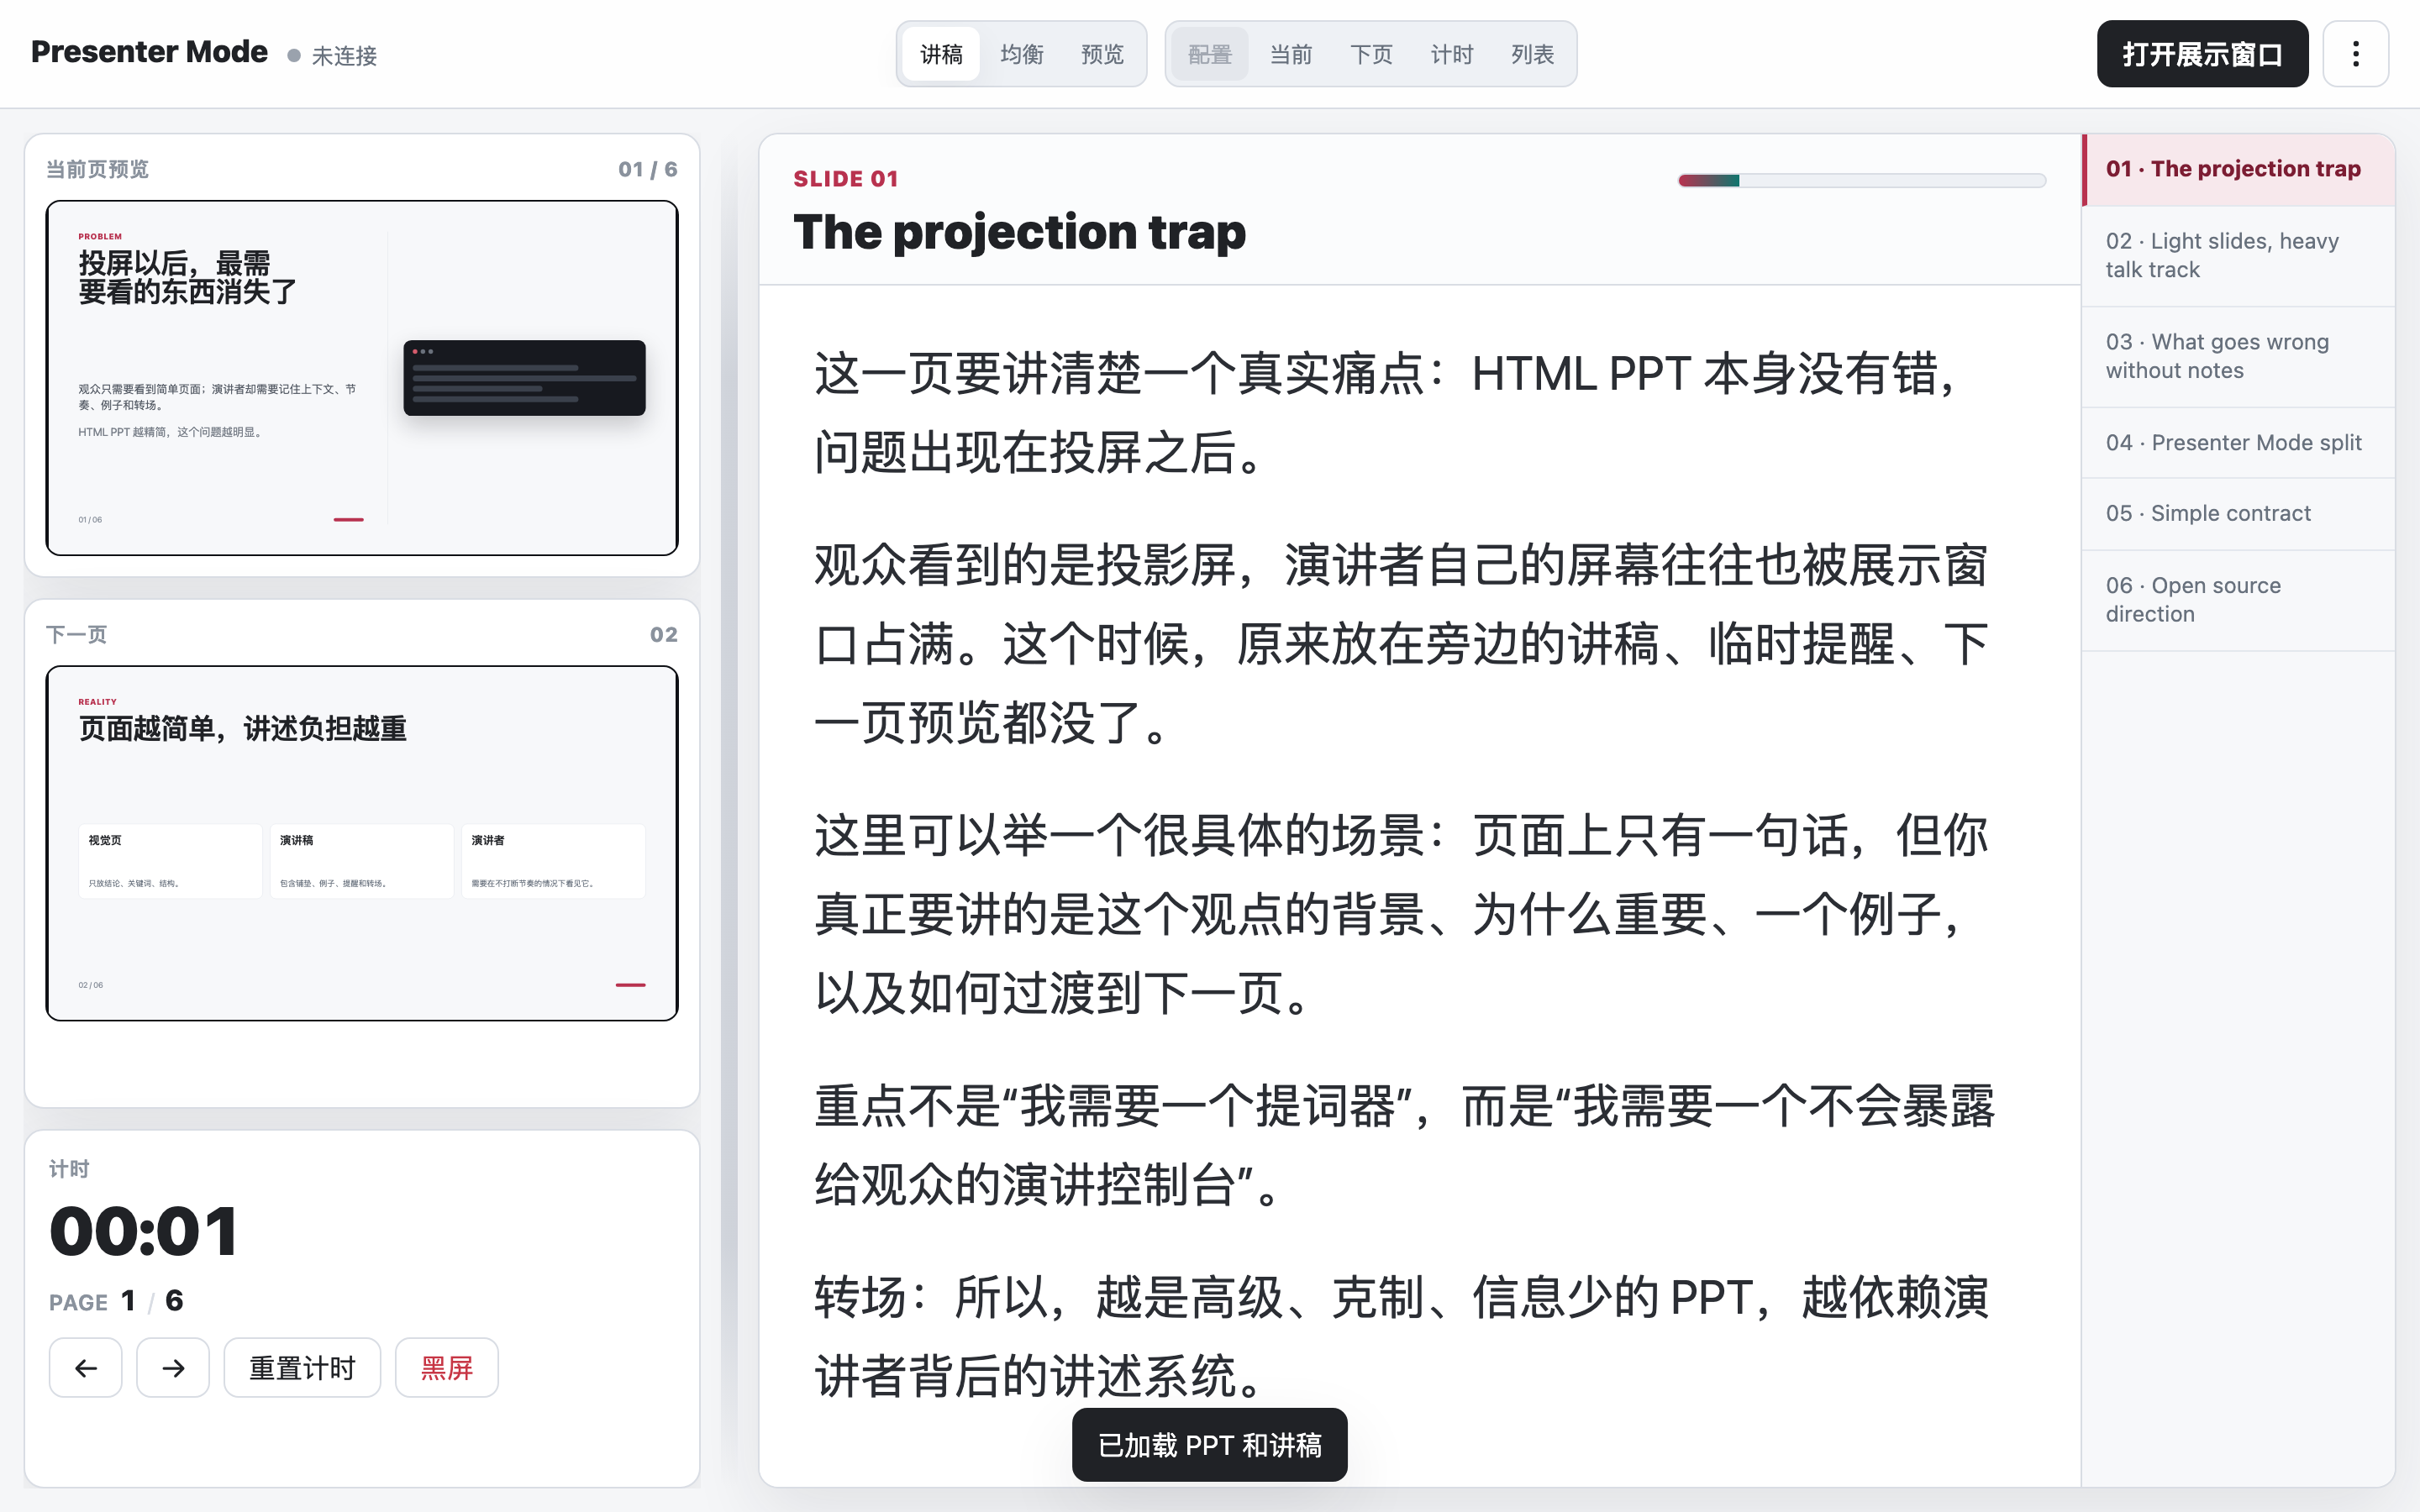
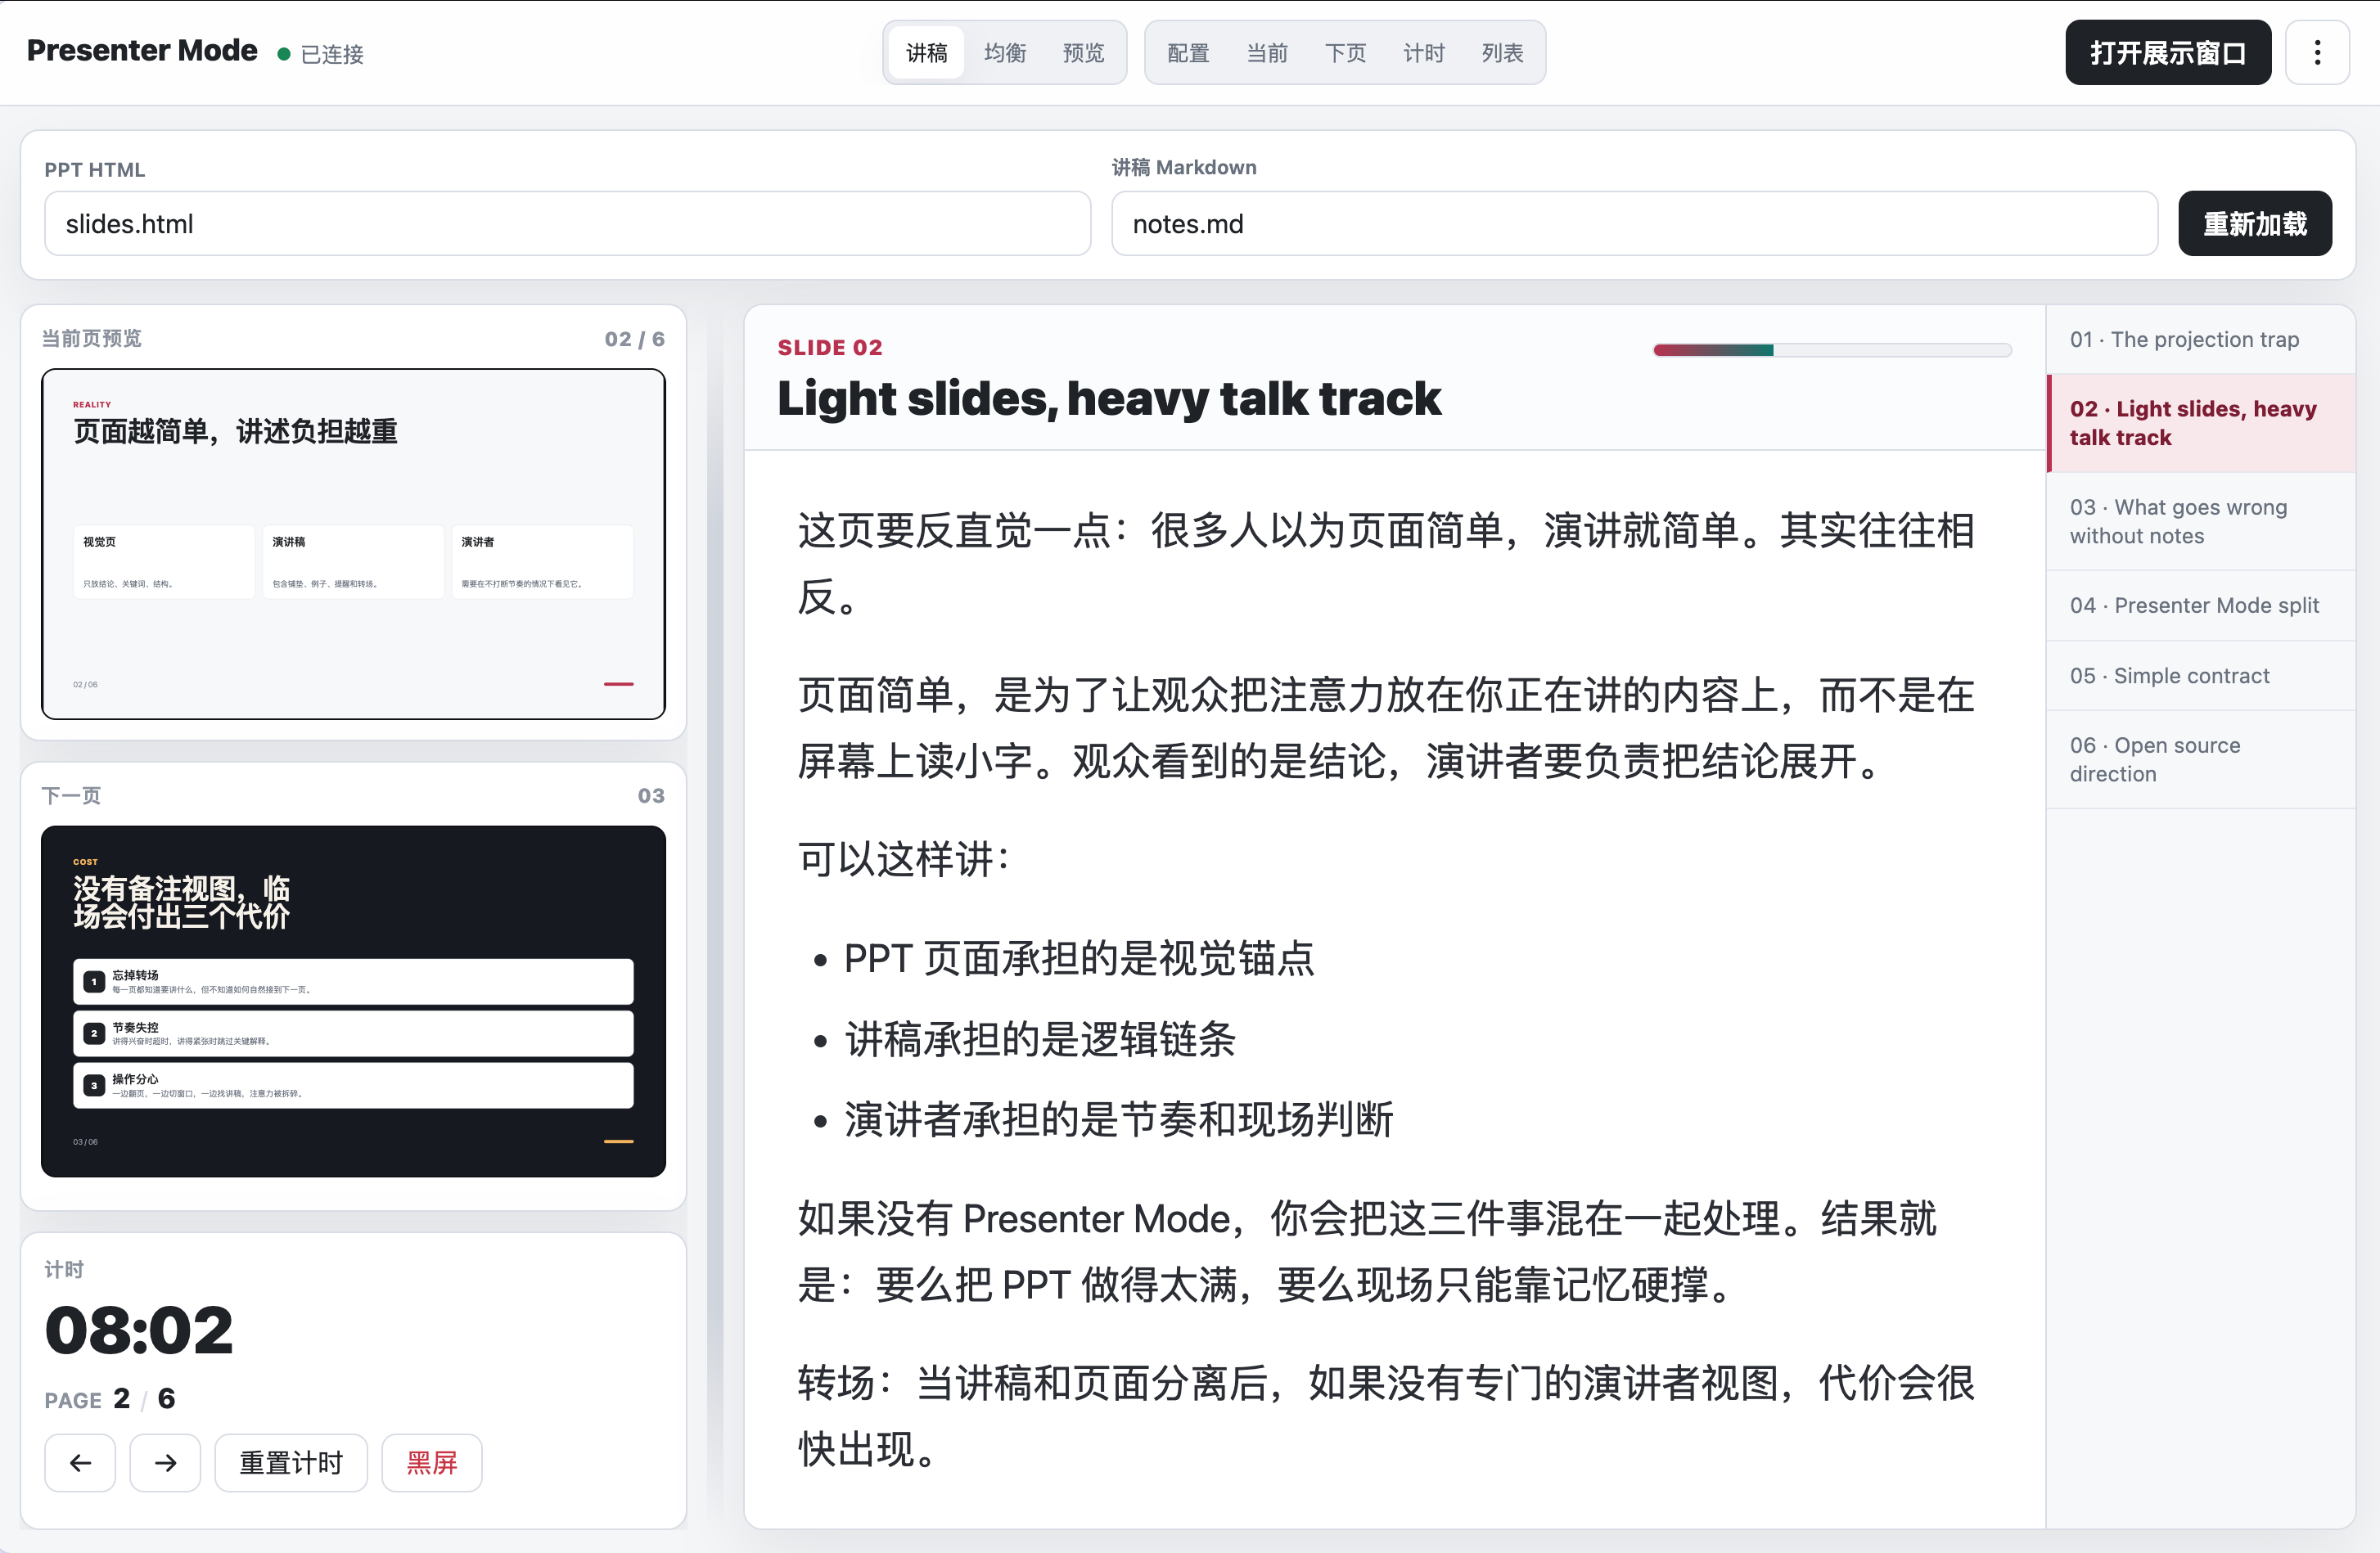
docs: update README presentation visuals

diff --git a/README.md b/README.md
@@ -6,22 +6,54 @@
 
 ## 中文
 
-为 HTML 幻灯片提供零构建的演讲者视图。
+### 这是什么？
 
-双屏演示：观众看到干净的幻灯片投影，演讲者在自己的屏幕上看到讲稿、计时器、当前/下一页预览、幻灯片列表和控制面板。
+你在台上旁征博引、金句频出、复杂概念一字不差——秘密在你的笔记本屏幕上：  
+讲稿、计时器、当前页、下一页预览、幻灯片缩略图列表。
+
+观众看到的投影？干净的幻灯片，一个字的提词都没有。
+
+**零构建、零配置、零依赖**——就一个 HTML 文件，浏览器打开就能用。
+
+### 双屏效果
+
+![双屏演讲场景](docs/illustration-dual-screen-room.png)
+
+![Presenter Mode 工作流](docs/illustration-workflow.png)
+
+### 界面截图
 
 ![演讲者视图](docs/screenshot-presenter.png)
 ![观众视图](docs/screenshot-audience.png)
 
+### 为什么做这个？
+
+**痛点 1：好的演讲需要讲稿，但幻灯片上不能写太多字**  
+观众不想看密密麻麻的文字，你需要记住每一页要讲什么、引用哪些数据、该强调哪个观点。  
+PowerPoint / Keynote 的演讲者模式解决了这个问题——你能看到备注，观众看不到。
+
+**痛点 2：我的幻灯片是 HTML，没有内置演讲者模式**  
+你用 reveal.js、Slidev、或者自己手写的 HTML slides。想要演讲者备注？
+- 有的框架需要装插件、改配置，还要学新语法
+- 有的框架根本不支持，只能把备注写在浏览器开发者工具的注释里
+- 或者…算了，我硬背吧
+
+**痛点 3：不想为了一个演讲者视图搞一套构建流程**  
+我就想要个双屏演示：观众看投影，我看讲稿。不想改现有幻灯片的一行代码，不想 `npm install` 一堆依赖。
+
+**解决方案：**  
+一个 HTML 文件（57KB），用 `<iframe>` 加载你的幻灯片，用 Markdown 写讲稿。  
+本地起个静态服务器（`python3 -m http.server`），打开浏览器，搞定。
+
 ### 核心特性
 
 - 🎯 **双窗口设置**：观众看干净的幻灯片，演讲者看讲稿+预览
-- 📝 **演讲者备注**：Markdown 格式，逐页显示讲稿
-- ⏱️ **计时器**：追踪演讲时间，可重置
-- 👀 **预览**：当前页和下一页并排显示
-- 📋 **幻灯片列表**：缩略图快速导航
-- 🎨 **响应式**：适配笔记本、平板、手机屏幕
-- 🌓 **主题**：浅色（Sun）和深色（Moon）模式
+- 📝 **演讲者备注**：Markdown 格式，逐页显示讲稿，支持加粗、列表、代码
+- ⏱️ **计时器**：追踪演讲时间，超时了心里有数
+- 👀 **预览**：当前页和下一页并排显示，提前知道下一页要讲什么
+- 📋 **幻灯片列表**：缩略图快速导航，讲到一半突然想跳过某页也不慌
+- 🎨 **响应式**：适配笔记本、平板、手机屏幕（平板当提词器也能用）
+- 🌓 **主题**：浅色（Sun）和深色（Moon）模式，适应不同场地光线
 - 🌍 **中英双语**：界面支持中文和英文
 - 🔧 **零构建**：无需 npm install，无需打包工具，浏览器直接打开
 
@@ -83,12 +115,21 @@ window.deck = {
 这是第一页的演讲者备注。
 
 要点：
-- 介绍主题
-- 设定预期
+- 介绍主题：今天要解决什么问题
+- 设定预期：听完能学到什么
+- 过渡语：接下来我们看看现状
+
+**重点数据**：根据 2024 年调查，83% 的开发者遇到过这个问题。
 
 ## 02 问题所在
 
-解释痛点...
+开场：「大家有没有遇到过这种情况…」
+
+核心观点：
+- 现有方案的三个局限
+- 为什么传统做法不够用
+
+引用：Martin Fowler 说过，「…」
 ```
 
 ### 快捷键
@@ -98,7 +139,7 @@ window.deck = {
 | `→` / `Space` / `PageDown` | 下一页 |
 | `←` / `PageUp` | 上一页 |
 | `Home` / `End` | 第一页或最后一页 |
-| `B` | 黑屏观众窗口 |
+| `B` | 黑屏观众窗口（中场休息或回答问题时用） |
 | `R` | 重置计时器 |
 | `+` / `-` / `0` | 调整或重置讲稿字号 |
 
@@ -109,6 +150,22 @@ window.deck = {
 3. 把观众窗口拖到投影屏幕
 4. 在观众窗口按 F11 进入全屏
 5. 在演讲者窗口控制翻页，观众窗口自动同步
+
+**建议：提前彩排一次**，确认讲稿字号、布局、计时器都调好了，演讲当天直接开讲。
+
+### 局限性
+
+**这个工具适合：**
+- ✅ 你已经有 HTML 幻灯片，只是想要个演讲者视图
+- ✅ 你的幻灯片结构简单（线性翻页，没有复杂的嵌套或动态路由）
+- ✅ 你愿意用 Markdown 写讲稿（不想嵌在幻灯片 HTML 里）
+- ✅ 你需要在演讲时看讲稿、计时、预览下一页
+
+**这个工具不适合：**
+- ❌ 你还没有幻灯片，想从零开始做演示 → 直接用 **reveal.js / Slidev / Sli.dev** 更合适
+- ❌ 你的幻灯片有复杂的嵌套结构或自定义路由 → 需要深度适配，可能不值得
+- ❌ 你想要实时协作、云端同步、自动录制 → 用 **Google Slides / Pitch**
+- ❌ 你的演讲不需要讲稿（演讲大师或者完全即兴）→ 那你不需要这个工具
 
 ### 开发与测试
 
@@ -131,22 +188,54 @@ MIT — 见 [LICENSE](LICENSE)
 
 ## English
 
-A zero-build presenter view for HTML slide decks.
+### What is this?
 
-Dual-window setup: audience sees clean slides on the projector, presenter sees notes + timer + current/next previews + slide list on their laptop screen.
+You're on stage dropping references, memorable quotes, complex concepts word-perfect — the secret is on your laptop screen:  
+Speaker notes, timer, current slide, next slide preview, thumbnail list.
+
+The audience sees the projector? Clean slides with zero visible prompts.
+
+**Zero-build, zero-config, zero-dependency** — just one HTML file, open in browser and go.
+
+### Dual-Screen Experience
+
+![Dual-screen presentation scene](docs/illustration-dual-screen-room.png)
+
+![Presenter Mode workflow](docs/illustration-workflow.png)
+
+### Screenshots
 
 ![Presenter View](docs/screenshot-presenter.png)
 ![Audience View](docs/screenshot-audience.png)
 
+### Why build this?
+
+**Pain point 1: Good presentations need speaker notes, but slides can't be text-heavy**  
+Audiences don't want walls of text. You need to remember what to say on each slide, which data to cite, which points to emphasize.  
+PowerPoint / Keynote presenter mode solves this — you see notes, audience doesn't.
+
+**Pain point 2: My slides are HTML, no built-in presenter mode**  
+You're using reveal.js, Slidev, or hand-crafted HTML slides. Want speaker notes?
+- Some frameworks need plugins, config changes, and learning new syntax
+- Some frameworks don't support it at all — you're stuck putting notes in HTML comments and opening DevTools
+- Or… nevermind, I'll just memorize everything
+
+**Pain point 3: Don't want a build pipeline just for a presenter view**  
+I just want dual-screen: audience sees projector, I see notes. Don't want to modify existing slides, don't want to `npm install` a pile of dependencies.
+
+**Solution:**  
+One HTML file (57KB), loads your slides in an `<iframe>`, notes in Markdown.  
+Start a static server (`python3 -m http.server`), open browser, done.
+
 ### Features
 
 - 🎯 **Dual-window setup**: Audience sees clean slides, presenter sees notes + previews
-- 📝 **Speaker notes**: Markdown format with per-slide notes
-- ⏱️ **Timer**: Track presentation time with reset
-- 👀 **Preview**: Current and next slide side-by-side
-- 📋 **Slide list**: Quick navigation with thumbnails
-- 🎨 **Responsive**: Adapts to laptop, tablet, mobile screens
-- 🌓 **Themes**: Light (Sun) and dark (Moon) modes
+- 📝 **Speaker notes**: Markdown format with per-slide notes, supports bold, lists, code
+- ⏱️ **Timer**: Track presentation time, know when you're running over
+- 👀 **Preview**: Current and next slide side-by-side, see what's coming
+- 📋 **Slide list**: Quick navigation with thumbnails, skip slides mid-presentation without panic
+- 🎨 **Responsive**: Adapts to laptop, tablet, mobile screens (use tablet as teleprompter)
+- 🌓 **Themes**: Light (Sun) and dark (Moon) modes for different venue lighting
 - 🌍 **i18n**: English and Chinese UI
 - 🔧 **Zero-build**: No npm install, no bundler, just open in browser
 
@@ -205,15 +294,24 @@ See [skill/add-presenter-mode/SKILL.md](skill/add-presenter-mode/SKILL.md) for d
 ```markdown
 ## 01 First Slide Title
 
-Speaker notes for slide 1 go here.
+Speaker notes for slide 1.
 
 Key points:
-- Introduce topic
-- Set expectations
+- Introduce topic: what problem are we solving today
+- Set expectations: what will you learn
+- Transition: "Let's look at the current state..."
+
+**Key stat**: According to 2024 survey, 83% of developers face this issue.
 
 ## 02 The Problem
 
-Explain pain point...
+Opening: "Has anyone here experienced this..."
+
+Core argument:
+- Three limitations of existing solutions
+- Why traditional approaches fall short
+
+Quote: Martin Fowler said, "..."
 ```
 
 ### Keyboard Shortcuts
@@ -223,7 +321,7 @@ Explain pain point...
 | `→` / `Space` / `PageDown` | Next slide |
 | `←` / `PageUp` | Previous slide |
 | `Home` / `End` | First or last slide |
-| `B` | Blackout audience window |
+| `B` | Blackout audience window (for breaks or Q&A) |
 | `R` | Reset timer |
 | `+` / `-` / `0` | Adjust or reset notes font size |
 
@@ -234,6 +332,22 @@ Explain pain point...
 3. Drag audience window to projector screen
 4. Press F11 on audience window for fullscreen
 5. Control slides from presenter window; audience follows automatically
+
+**Tip: Rehearse once** to dial in notes font size, layout, and timing. On presentation day, just start.
+
+### Limitations
+
+**This tool is for you if:**
+- ✅ You already have HTML slides and just want a presenter view
+- ✅ Your slides are simple (linear navigation, no complex nesting or dynamic routing)
+- ✅ You're okay writing speaker notes in Markdown (not embedded in slide HTML)
+- ✅ You need to see notes, timer, and next slide preview while presenting
+
+**This tool is NOT for you if:**
+- ❌ You don't have slides yet and want to build from scratch → Use **reveal.js / Slidev / Sli.dev** instead
+- ❌ Your slides have complex nested structures or custom routing → Deep adaptation required, might not be worth it
+- ❌ You want real-time collaboration, cloud sync, auto-recording → Use **Google Slides / Pitch**
+- ❌ You don't need notes (presentation master or fully improvised) → You don't need this tool
 
 ### Development & Testing
 